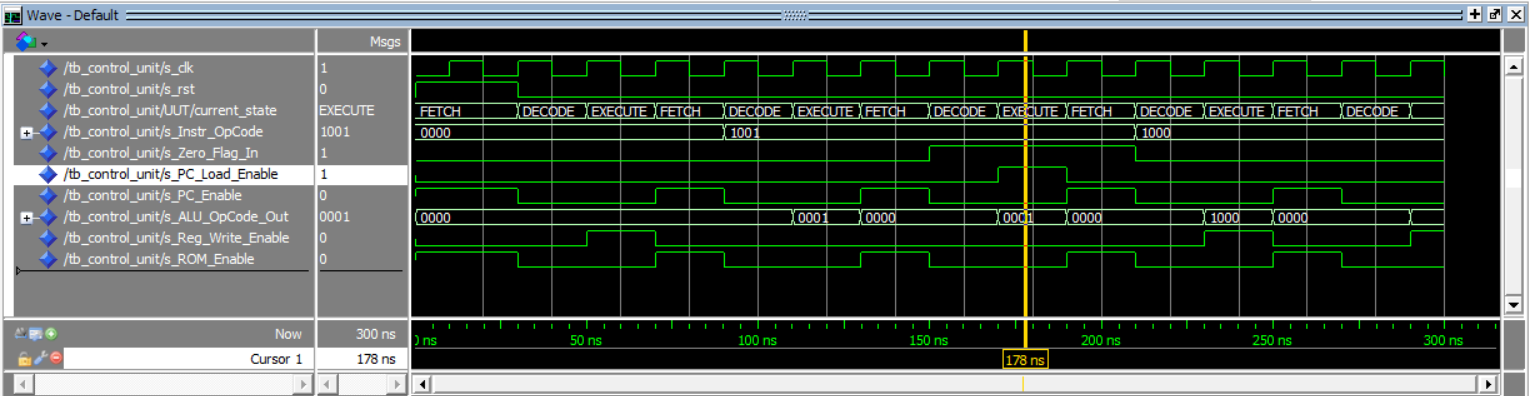
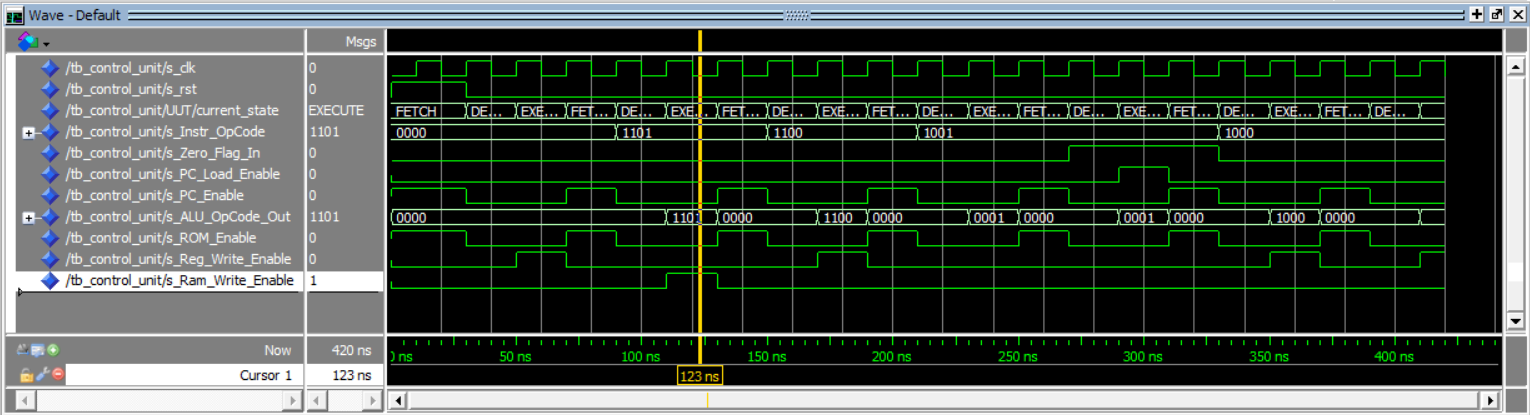
feat: Upgrade CPU to v3.0 architecture with Data Memory and Register Indirect Addressing
This commit advances the processor from the logic-focused "v2.1" design to the fully memory-capable "v3.0" architecture. The CPU now integrates a dedicated **Data Memory (RAM)** module, enabling dynamic data storage and retrieval via **Register Indirect Addressing**, effectively transforming the system into a Modified Harvard Architecture.

The `cpu_top` and core modules have been upgraded to support pointer-based memory access and bi-directional data flow:

1.  **Data Memory Integration (RAM):** A new 16x4-bit RAM block has been integrated into the datapath. This provides the CPU with "long-term" storage capability, separate from the temporary Register File and the Instruction ROM.

2.  **Register Indirect Addressing:** The architecture now supports dynamic addressing. Instead of using hardcoded addresses, the CPU uses the value stored in a "Pointer Register" (Source A) to determine the target RAM address. This allows for advanced operations like array traversal and dynamic data manipulation.

3.  **Memory Operations (LDR/STR):** Two new instruction types were implemented. `STR` (Store) enables writing data from a register to RAM, while `LDR` (Load) enables reading data from RAM back into a register, managed by precise control signals.

**Supporting Module Updates:**
To implement these features, the following components were refactored or added:
* `13_RAM_Integration`: Added the `data_memory.vhd` module (16x4-bit synchronous RAM).
[…]

diff --git a/README.md b/README.md
@@ -15,6 +15,14 @@ Each module is designed, verified in simulation (using ModelSim), and then assem
 
 ---
 
+## 📸 RTL Architecture View (Top Level)
+
+Below is the synthesized **RTL (Register Transfer Level) Schematic** of the final **v3.0 CPU**. This diagram, generated by Quartus Prime, visualizes the physical interconnections between the Control Unit, ALU, Register File, and Data Memory.
+
+![RTL Schematic](10_CPU_Top/cpu_rtl_view.png)
+
+---
+
 ## 🚀 Project Modules & Progression
 
 This project is built modularly. Each directory contains the VHDL source, its corresponding testbench, and a waveform proof of its successful simulation.
@@ -33,7 +41,8 @@ This project is built modularly. Each directory contains the VHDL source, its co
 | **10** | `CPU_Top` | The final "v1.0" integration, proving the F-D-E cycle works. | **✅ Completed** |
 | **11** | `CPU_v2_Upgrade` | Upgraded 16-bit architecture with dynamic addressing and LDI support. | **✅ Completed** |
 | **12** | `Branching_v2.1` | Implemented Conditional Branching (BEQ) and Extended ALU Ops. | **✅ Completed** |
-| **13** | `RAM_&_ISA_Exp` | *(Planned)* Expanding the Instruction Set with Memory Access (LDR, STR) and Unconditional Jump (JMP) operations. | **🕒 Planned** |
+| **13** | `RAM_Integration` | Added Data Memory (RAM) and Register Indirect Addressing (LDR/STR). | **✅ Completed** |
+| **14** | `RAM_Expansion` | *(Planned)* Expanding Data Memory word width to 8-bits to support packed 4-bit/4-bit data storage. | **🕒 Planned** |
 
 ---
 
@@ -91,6 +100,11 @@ This project is built modularly. Each directory contains the VHDL source, its co
 * **v1.0 Limitation:** This initial CPU version uses **hardwired register addressing**. The `Control_Unit` does not yet know how to tell the `Register_File` *which* registers to read/write. We "hacked" this by wiring the `Register_File` to *always* read from `R1` and `R2`, and *always* write to `R3`.
 * **Files:** `cpu_top.vhd`, `tb_cpu_top.vhd`, `cpu_top_waveform.png`
 
+### 11_Data_Memory
+* **Purpose:** A 16x4-bit RAM block that allows the CPU to store data dynamically.
+* **Key Concept:** This module enables the **Store (STR)** and **Load (LDR)** operations, giving the CPU "long-term" storage capability separate from the Register File.
+* **Files:** `data_memory.vhd`, `tb_data_memory.vhd`, `data_memory_waveform.png`
+
 ---
 
 ## 📖 v2.0 Architectural Upgrades
@@ -98,17 +112,10 @@ This project is built modularly. Each directory contains the VHDL source, its co
 The transition from v1.0 to v2.0 introduced critical features that transformed the circuit into a truly programmable system:
 
 ### 1. 16-Bit Instruction Format (Instruction Slicing)
-The `Instruction_ROM` output was upgraded from 2-bit to **16-bit**. Each instruction is now sliced in the `cpu_top` module to extract control and address data dynamically:
-* **Bits [15:12]:** OpCode (Operation identifier)
-* **Bits [11:8]:** Target Register (Destination address)
-* **Bits [7:4]:** Source Register A (Read address 1)
-* **Bits [3:0]:** Source Register B or Immediate Data (Read address 2 or 4-bit constant)
 
 ### 2. LDI (Load Immediate) Support
-The CPU can now load values directly from the code into registers. An **Internal Multiplexer (MUX)** was added to the datapath to choose between a register value (for R-type instructions) and immediate data from the ROM (for I-type instructions like `LDI`).
 
 ### 3. Dynamic Register File
-The `Register_File` was updated to remove all hardcoded test values. All registers now initialize to zero upon reset, and data is loaded dynamically via the `LDI` command.
 
 ---
 
@@ -117,21 +124,26 @@ The `Register_File` was updated to remove all hardcoded test values. All registe
 The transition to **v2.1** marks the completion of a fully Turing-complete logic system. The CPU can now make decisions based on data.
 
 ### 1. Conditional Branching (BEQ)
-The CPU now supports the `BEQ` (Branch if Equal) instruction.
-* **Mechanism:**
-    1.  The ALU subtracts two registers (`Ra - Rb`).
-    2.  If the result is zero, the ALU sets `Zero_Flag = '1'`.
-    3.  The Control Unit reads the flag. If the opcode is `BEQ`, it triggers `PC_Load`.
-    4.  The Program Counter updates to the Target Address immediately, skipping code.
 
 ### 2. Expanded ISA (Instruction Set Architecture)
-XOR, NAND, SHL, SHR and BEQ instructions are now available.
 
 ---
 
-## 💡 Instruction Set Architecture (ISA) - v2.1
+## 📖 v3.0 Architectural Upgrades: Memory & Pointers
 
-This is the official "language" that the v2.1 CPU uses.
+The **v3.0** update introduces a dedicated **Data Memory (RAM)** module, separating instruction storage (ROM) from data storage (RAM) (Modified Harvard Architecture).
+
+### 1. Data Memory Integration
+A 16x4-bit RAM module was added to the CPU Top. The Control Unit was updated to manage `RAM_Write_Enable` signals.
+
+### 2. Register Indirect Addressing (Pointers)
+The CPU now supports **pointer-based access**. Instead of hardcoding RAM addresses in the instruction, the CPU uses the value inside a register as the address.
+
+---
+
+## 💡 Instruction Set Architecture (ISA) - v3.0
+
+This is the official "language" that the v3.0 CPU uses.
 
 ### Instruction Formats
 The 16-bit command structure is divided into two main types depending on the data source:
@@ -140,6 +152,8 @@ The 16-bit command structure is divided into two main types depending on the dat
 -- R-Type (Register Ops): [OpCode(4)] [Target(4)] [Source A(4)] [Source B(4)]
 -- I-Type (Immediate):    [OpCode(4)] [Target(4)] [Unused(4)]   [Immediate(4)]
 -- B-Type: [OpCode(4)] [Target/Addr(4)] [Source A(4)] [Source B(4)]
+-- M-Type (Load):         [OpCode(4)] [Target(4)] [Pointer(4)] [Unused(4)]
+-- S-Type (Store):        [OpCode(4)] [Unused(4)] [Pointer(4)] [Data Source(4)]
 ```
 
 | OpCode | Mnemonic | Type | Operation | Description |
@@ -154,3 +168,5 @@ The 16-bit command structure is divided into two main types depending on the dat
 | `"0111"` | `SHR` | `R` | `Rd = Ra >> 1` | Shift Right (Logical) of Ra, stores in Rd. |
 | `"1000"` | `LDI` | `I` | `Rd = Imm` | Loads Immediate 4-bit value directly into Rd. |
 | `"1001"` | `BEQ` | `B` | `if(Ra==Rb) PC=Addr` | Branches to Address if Ra and Rb are Equal. |
+| `"1100"` | `LDR` | `M` | `Rd = Ram[Ra]` | Loads data from RAM (Address in Ra) into Rd. |
+| `"1101"` | `STR` | `S` | `Ram[Ra] = Rb` | Stores data from Rb into RAM (Address in Ra). |
